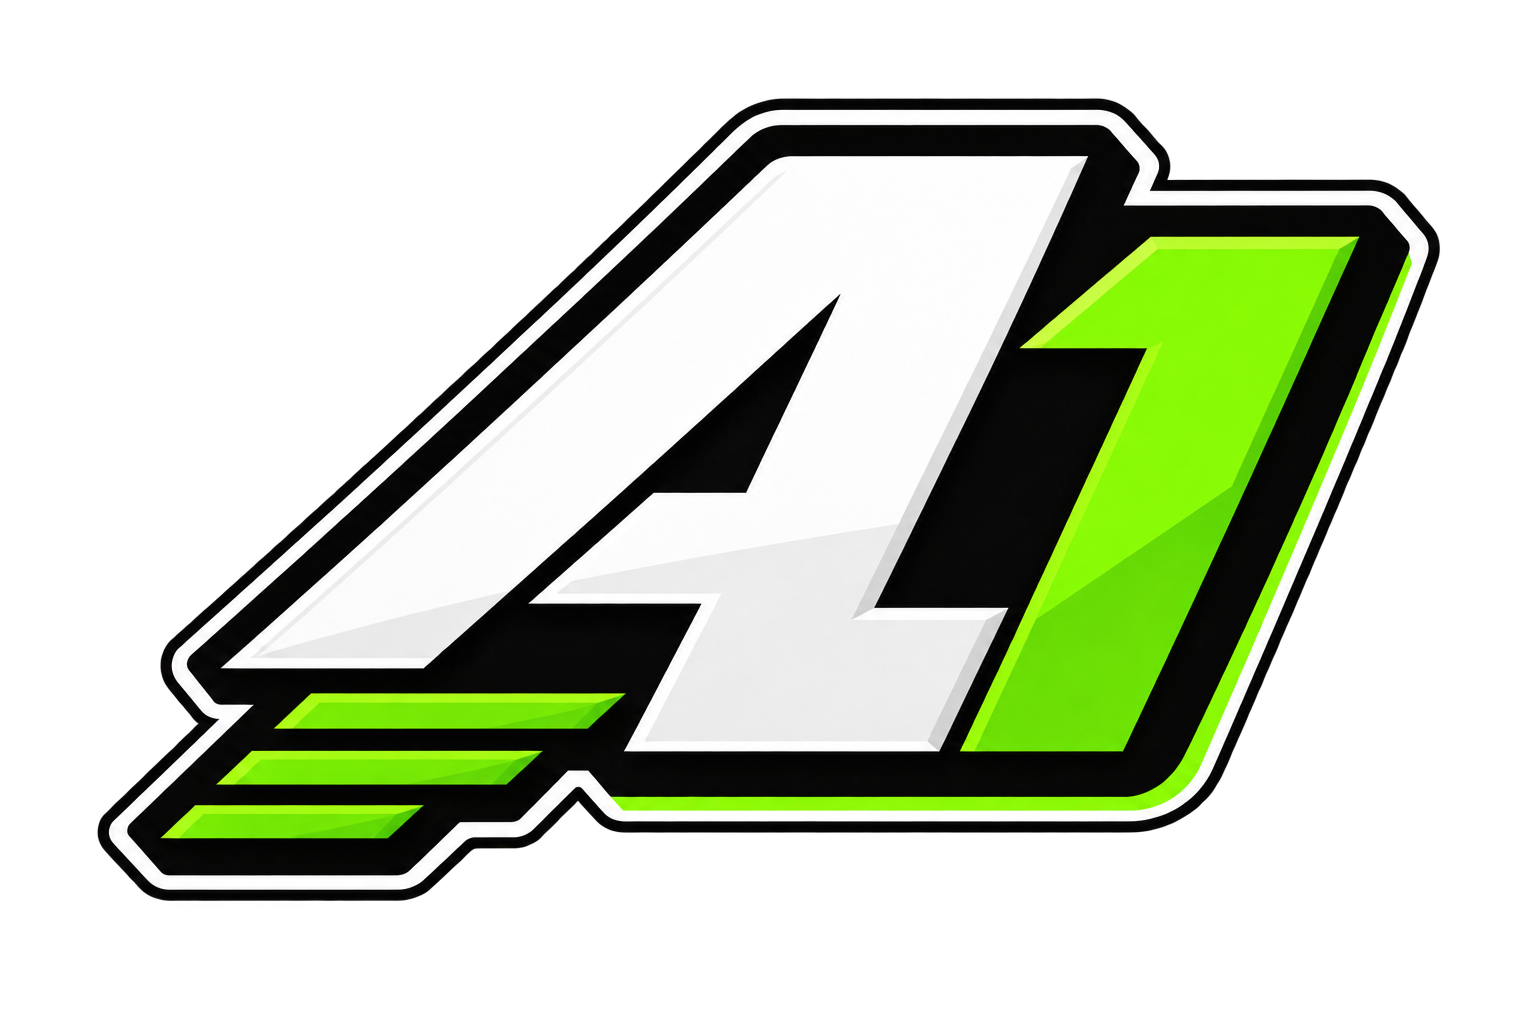
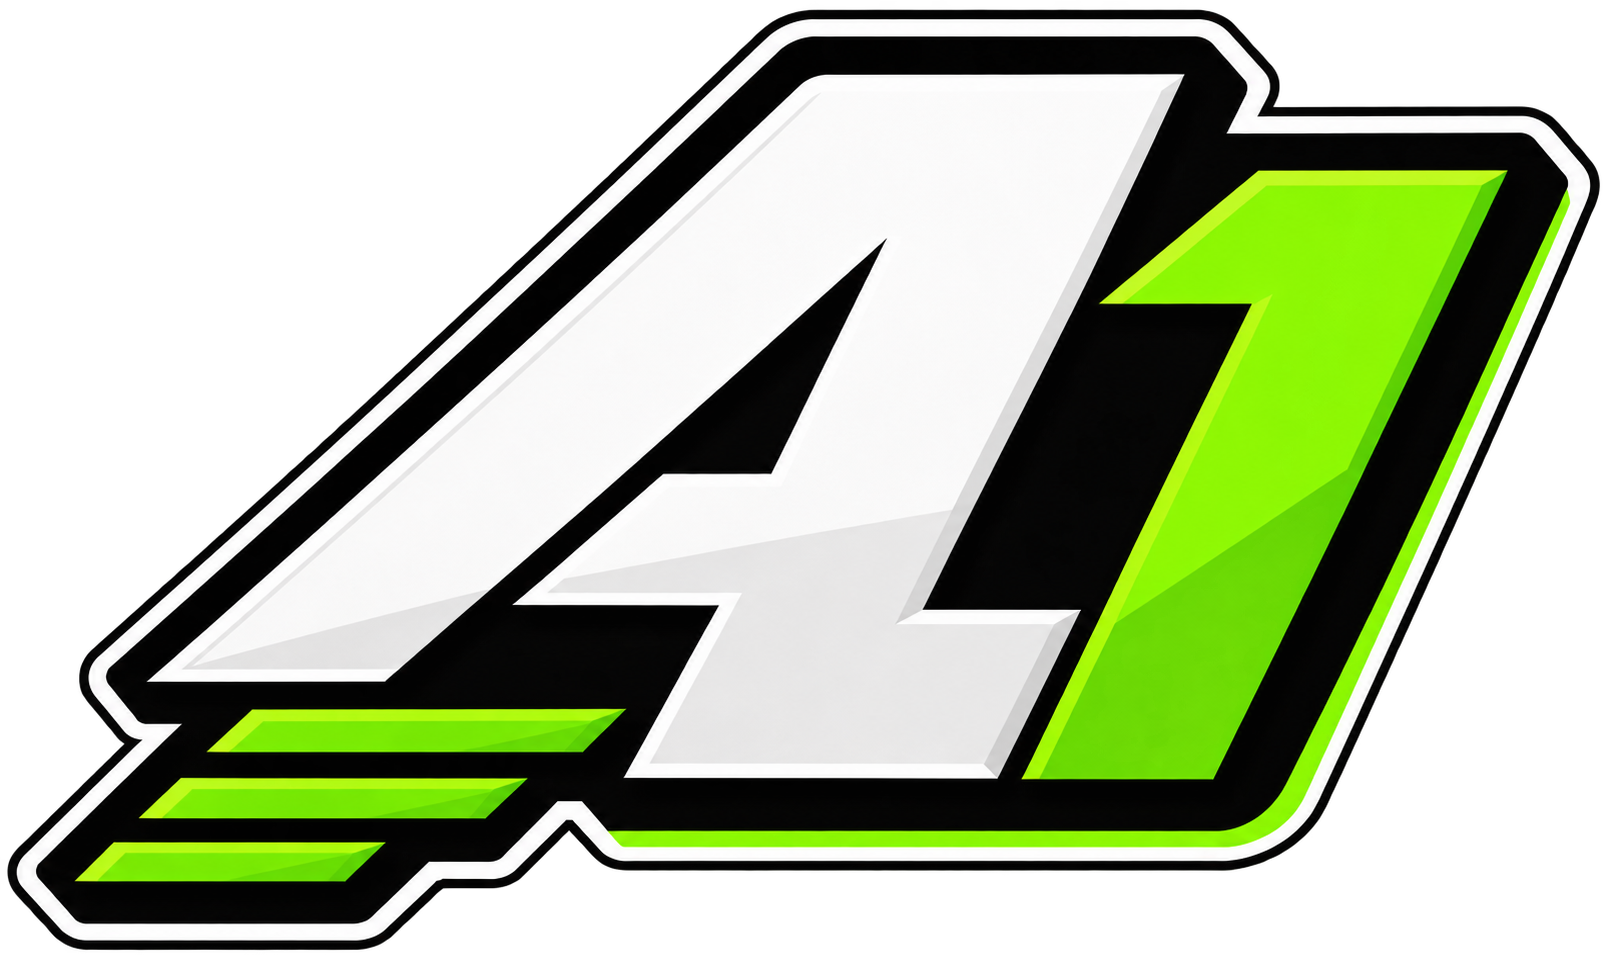
fix: refresh transparent launcher branding

diff --git a/tests/test_branding_assets.py b/tests/test_branding_assets.py
@@ -1,0 +1,29 @@
+from pathlib import Path
+
+from PIL import Image
+
+
+ASSETS = Path(__file__).resolve().parents[1] / "src" / "allin1" / "assets"
+
+
+def test_launcher_header_logo_has_real_transparency():
+    with Image.open(ASSETS / "ALLIN1.png") as logo:
+        assert logo.mode == "RGBA"
+        alpha = logo.getchannel("A")
+        assert alpha.getextrema() == (0, 255)
+        assert all(
+            logo.getpixel(point)[3] == 0
+            for point in (
+                (0, 0), (logo.width - 1, 0),
+                (0, logo.height - 1), (logo.width - 1, logo.height - 1),
+            )
+        )
+
+
+def test_launcher_icon_bundle_includes_high_dpi_sizes():
+    with Image.open(ASSETS / "ALLIN1-icon.png") as icon:
+        assert icon.mode == "RGBA"
+        assert icon.size == (256, 256)
+    with Image.open(ASSETS / "ALLIN1.ico") as icon:
+        assert {(16, 16), (32, 32), (48, 48), (128, 128), (256, 256)} <= \
+            icon.ico.sizes()
